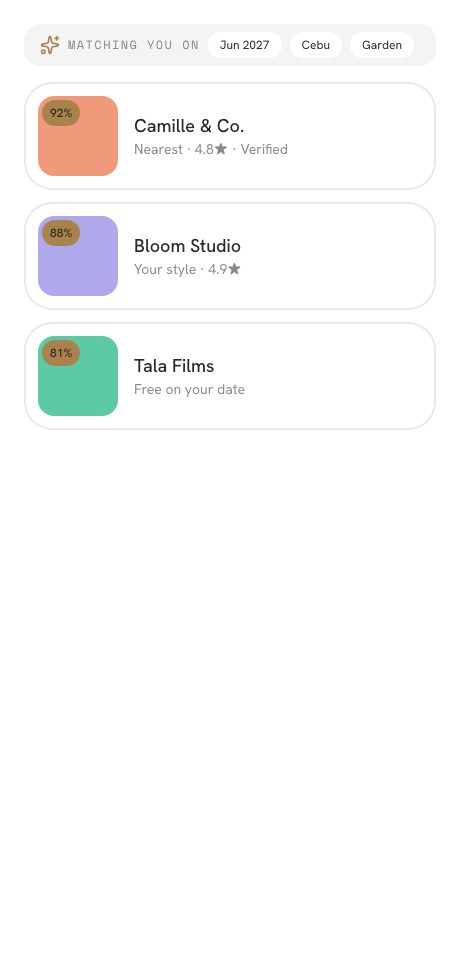
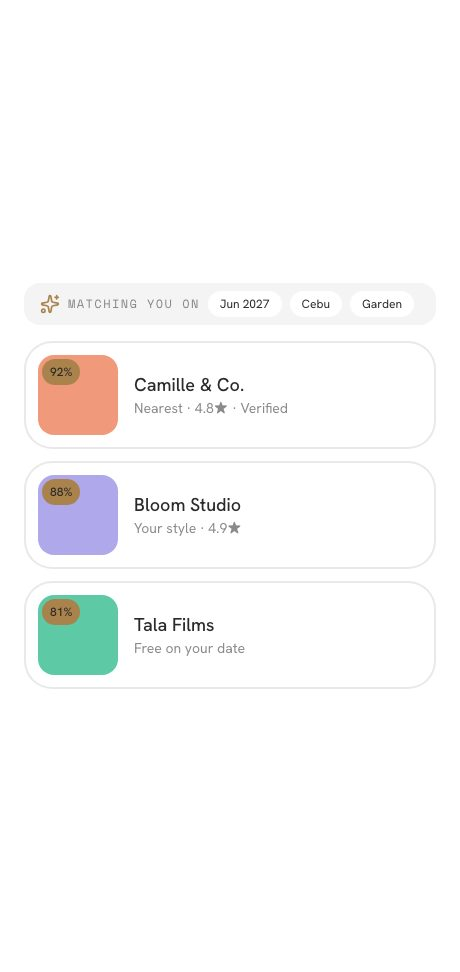
fix(demo): the Setnayan AI stills stop shipping two-thirds blank
Owner, on the Setnayan AI spotlights: "reframe it".

Scenes 1 and 3 were `absolute inset-0 flex flex-col`, so short content sat at
the top of the 460x972 capture frame and every pixel of slack fell below it --
and _spotlights.tsx renders that frame at its full 9:19 on eight public pages.
They now centre, and both stills are re-captured and looked at.

Not the defect lint-demo-capture-geometry guards: that was a viewport SMALLER
than the frame, so content landed top-LEFT and the right was padded too. Here
the geometry is right and content spans the full width; only the vertical
slack was wrong. Check the width to tell them apart.

It is not two pictures but twenty-five: 25 of 52 scenes across 12 of 13
products top-align the same way. Two fixed, 23 baselined rather than swept up
-- centring a scene whose content overflows clips its FIRST row instead of its
last, and no source check can tell a short scene from a tall one.

lint-scene-fills-its-frame refuses a new offender and also fails on a stale
baseline line, since a rule that cannot fire protects nothing.

diff --git a/apps/web/app/_components/app-store/studio-card-demo.tsx b/apps/web/app/_components/app-store/studio-card-demo.tsx
@@ -730,6 +730,20 @@ const INDOOR_BLUEPRINT_SCENES: RichFrame[] = [
 ];
 
 // ── Setnayan AI — pitch → ranked matches → choose → deadlines ──
+//
+// 🖼 THE SCENES CENTRE THEMSELVES, AND THAT IS ABOUT THE STILLS AS MUCH AS THE
+// CARD. `capture-demo-stills.mjs` photographs each of these into a 460×972
+// frame, and `_spotlights.tsx` renders that frame at its full 9:19 on eight
+// public product pages. A scene that top-aligns short content therefore ships
+// a picture whose bottom two thirds are blank — which is what the owner saw on
+// /setnayan-ai and the Setnayan AI buy page (2026-09-08: "reframe it").
+//
+// ⚠ NOT THE CAPTURE BUG `lint-demo-capture-geometry.mjs` GUARDS. That one was
+// a viewport SMALLER than the frame, so content landed in the top-LEFT and the
+// right was padded too. Here the geometry is right — 460×972 in, 460×972 out,
+// content spanning the full WIDTH — and only the vertical slack is wrong. Two
+// different defects that produce a similar-looking picture; checking the width
+// is what tells them apart.
 function vendorRow(name: string, pct: string, tint: string, why: string) {
   return (
     <div className="flex items-center gap-2 rounded-lg border border-ink/10 bg-white p-1.5">
@@ -760,7 +774,7 @@ const SETNAYAN_AI_SCENES: RichFrame[] = [
     caption: 'Your best vendors, sorted to the top.',
     hint: 'Scroll the ranked shortlist.',
     scene: (
-      <div className="absolute inset-0 flex flex-col bg-cream px-3 pt-3 text-ink">
+      <div className="absolute inset-0 flex flex-col justify-center bg-cream px-3 py-3 text-ink">
         <div className="flex items-center gap-1 rounded-md bg-ink/5 px-2 py-1">
           <Sparkles aria-hidden className="h-2.5 w-2.5 text-terracotta" strokeWidth={2} />
           <span className="font-mono text-[6px] uppercase tracking-[0.12em] text-ink/55">Matching you on</span>
@@ -809,7 +823,7 @@ const SETNAYAN_AI_SCENES: RichFrame[] = [
     caption: 'Every decision, with deadlines that nudge you.',
     hint: 'Tap a circle to check it off.',
     scene: (
-      <div className="absolute inset-0 flex flex-col bg-cream px-3 pt-3 text-ink">
+      <div className="absolute inset-0 flex flex-col justify-center bg-cream px-3 py-3 text-ink">
         <div className="flex justify-between font-mono text-[7px] uppercase tracking-[0.12em] text-ink/55"><span>Up next</span><span>4 of 18 done</span></div>
         <div className="mt-2 space-y-1.5">
           {[

diff --git a/changelog.d/the-stills-fill-their-frame.md b/changelog.d/the-stills-fill-their-frame.md
@@ -1,0 +1,39 @@
+## 2026-09-08 · fix(demo): the Setnayan AI stills stop shipping two-thirds blank
+
+Owner, on the Setnayan AI spotlights: *"reframe it"*.
+
+`capture-demo-stills.mjs` photographs each demo scene into a 460×972 frame and
+`_spotlights.tsx` renders that frame at its full 9:19 — on eight public product
+pages and on the Setnayan AI buy page. Scenes 1 (ranked shortlist) and 3
+(deadlines) were laid out `absolute inset-0 flex flex-col`, so their short
+content sat at the top and every pixel of slack fell below it. They now centre,
+and both stills are re-captured against a real dev server and **looked at**.
+
+⚠ **NOT the defect `lint-demo-capture-geometry.mjs` guards, and telling them
+apart is the point.** That one was a viewport SMALLER than the recorded frame,
+so Playwright composited 1:1 into the top-LEFT and padded the right as well —
+content ended at x=229 of 460. Here the geometry is correct (460×972 in, 460×972
+out) and content spans the FULL WIDTH; only the vertical slack was wrong. Two
+different bugs that draw a similar-looking picture. **Check the width to know
+which one you have.**
+
+🔎 **It is not two pictures, it is twenty-five.** Measured across
+`studio-card-demo.tsx`: **25 of 52 scenes, in 12 of 13 products**, top-align the
+same way — so every doorway using stills has been showing half-empty frames.
+Two are fixed here; the remaining 23 are BASELINED, not swept up, because
+fixing one is a look-at-it job: centring a scene whose content OVERFLOWS clips
+its first row instead of its last, which is worse, and no source check can tell
+a short scene from a tall one.
+
+`lint-scene-fills-its-frame.mjs` refuses a NEW top-aligned scene and also fails
+on a STALE baseline line — a rule that cannot fire protects nothing. Wired into
+CI beside the geometry guard. Verified in both directions by sabotage.
+
+⚖ **Still open, and an owner call, not a mechanical fix:** even centred, these
+scenes fill roughly 40% of a 9:19 frame. Making the picture actually FULL means
+shortening the capture (and `_spotlights.tsx`'s `aspect-[460/972]`), which
+re-crops all 52 stills across 13 products through `object-cover`. Flagged rather
+than done.
+
+SPEC IMPACT: None. Two re-captured images and a new guard; no copy, price or
+locked decision changed.
